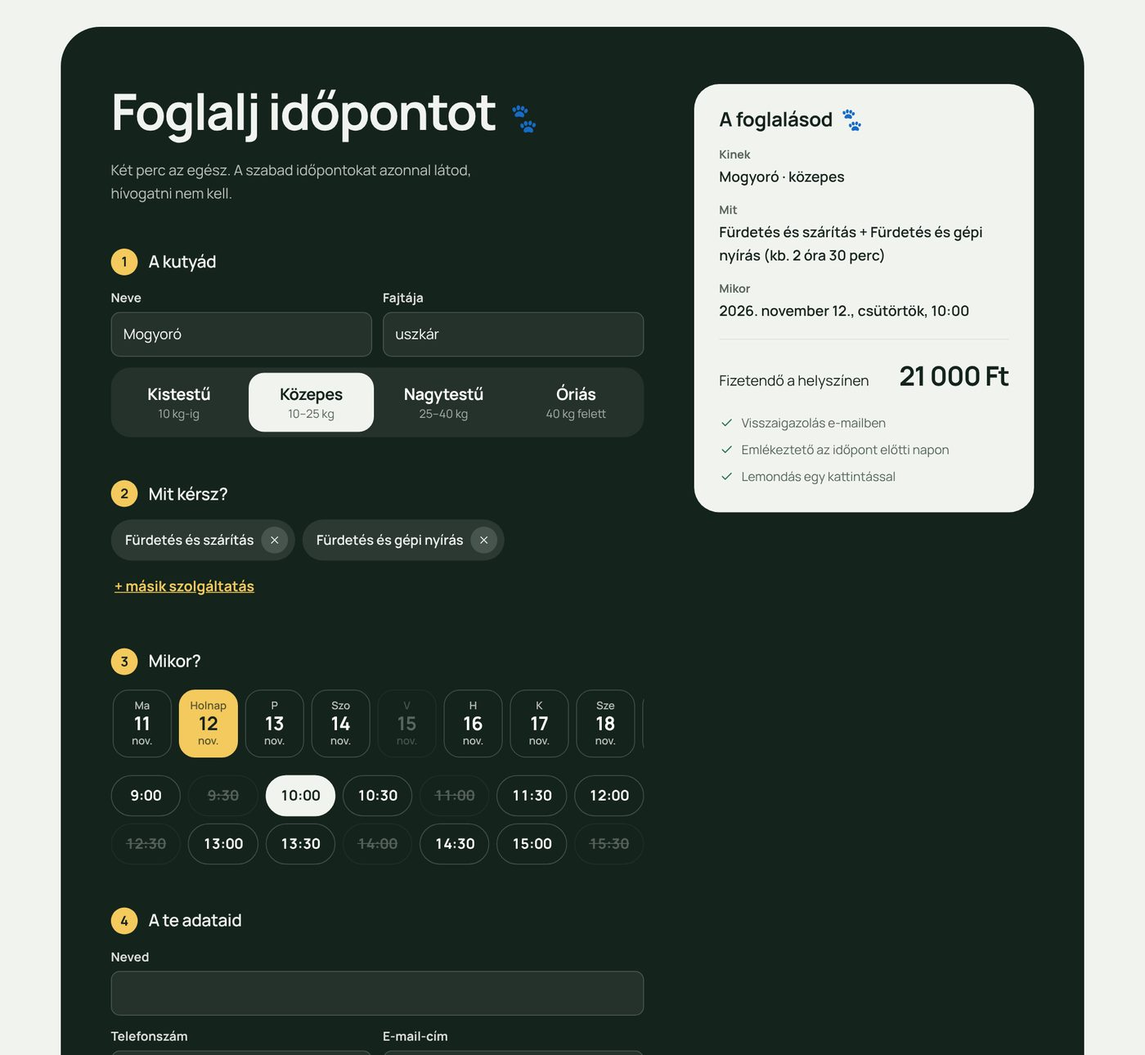
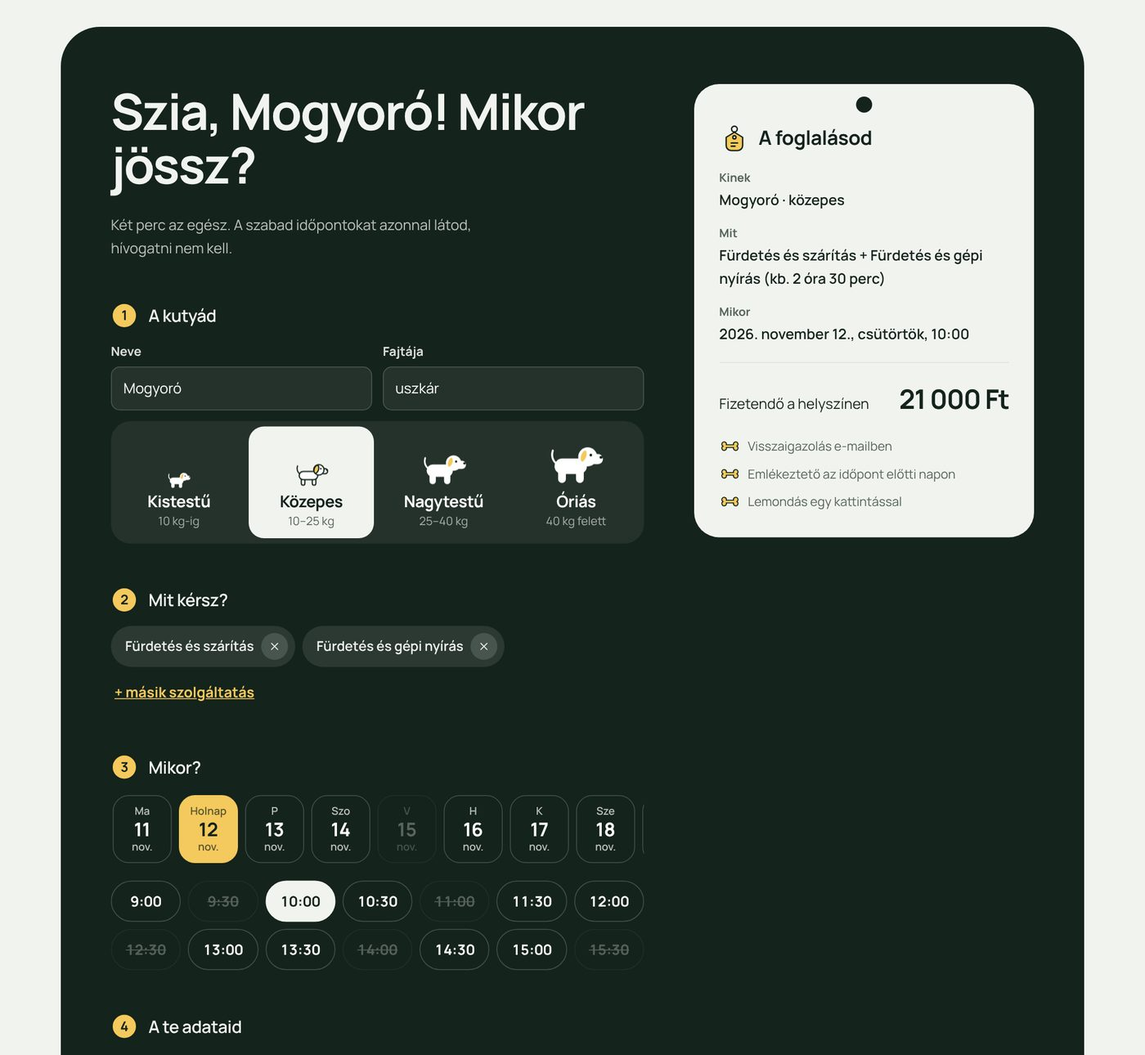
teszt-kutyakozmetika: saját matricakészlet, futószalag, részletek
Claude-Session: https://claude.ai/code/session_016Run1nACTgNtgLbjaBZxC9

diff --git a/minta/teszt-kutyakozmetika/index.html b/minta/teszt-kutyakozmetika/index.html
@@ -85,6 +85,18 @@ p{margin:0}
 .clist .ico{margin-top:3px;color:var(--acc)}
 .clist a{font-weight:700}
 
+/* térkép: csak kattintásra tölt be */
+.mapbox{position:relative;margin-top:24px;min-height:280px;background:var(--acct);overflow:hidden;display:grid;place-items:center;text-align:center;border-radius:var(--rm,0)}
+.mapbox::before{content:"";position:absolute;inset:0;opacity:.5;background:linear-gradient(115deg,transparent 46%,var(--line) 46%,var(--line) 47.2%,transparent 47.2%),linear-gradient(28deg,transparent 58%,var(--line) 58%,var(--line) 59%,transparent 59%),linear-gradient(160deg,transparent 30%,var(--line) 30%,var(--line) 30.8%,transparent 30.8%),linear-gradient(75deg,transparent 70%,var(--line) 70%,var(--line) 70.7%,transparent 70.7%)}
+.mapbox .in{position:relative;max-width:640px;padding:24px}
+.mapbox .in>.ico{width:30px;height:30px;color:var(--acc);margin:0 auto}
+.mapbox b{display:block;font-family:var(--fh);font-size:22px;line-height:1.2;margin-top:8px}
+.mapbox .row{display:flex;flex-wrap:wrap;justify-content:center;gap:10px;margin-top:16px}
+.mapbox .btn{min-height:46px;padding:10px 18px}
+.mapbox small{display:block;color:var(--ink2);font-size:13px;margin:14px auto 0;line-height:1.5;max-width:46ch}
+.mapbox iframe{position:absolute;inset:0;width:100%;height:100%;border:0}
+.vright{min-width:0;display:flex;flex-direction:column}
+.vright .mapbox{flex:1}
 footer{border-top:1px solid var(--line);margin-top:32px;padding:32px 0 110px;font-size:14px;color:var(--ink2)}
 footer .wrap{display:flex;flex-wrap:wrap;justify-content:space-between;gap:20px 40px}
 footer b{color:var(--ink)}
@@ -286,12 +298,8 @@ footer b{color:var(--ink)}
   .hpic .next{font-size:13px;padding:10px 14px}.hpic .next b{font-size:18px}
 }
 .bookband>*,.hero>*,.about>*,.visit>*{min-width:0}
-.paw{font-size:.5em;display:inline-block;transform:rotate(18deg);margin-left:.12em;vertical-align:.12em;font-family:"Apple Color Emoji","Segoe UI Emoji","Noto Color Emoji",sans-serif;letter-spacing:0}
-.next .paw,.sumcard h3 .paw{font-size:1em;vertical-align:0}
-.pawrow{display:flex;justify-content:center;gap:34px;padding:44px 0 0;font-size:22px;opacity:.5}
-.pawrow span:nth-child(odd){transform:rotate(-14deg) translateY(-6px)}.pawrow span:nth-child(even){transform:rotate(16deg) translateY(6px)}
-.bookband .sizes button[aria-pressed=true] span{color:var(--ink2);opacity:1}
 .nw{white-space:nowrap}
+.bookband .sizes button[aria-pressed=true] span{color:var(--ink2);opacity:1}
 /* formaváltozatok (cfg "shape": "iv" | "kerek" | "szogletes") */
 .s-kerek .hpic .a{border-radius:50%;aspect-ratio:1}
 .s-kerek .hpic .b{bottom:-10px}
@@ -302,6 +310,137 @@ footer b{color:var(--ink)}
 .s-szogletes .sizes{border-radius:14px}.s-szogletes .sizes button{border-radius:10px}
 .s-szogletes{--rb:12px}
 .s-szogletes .add{border-radius:12px}
+
+/* ── matricák, apró részletek ── */
+.dd{width:40px;height:40px;flex:none;stroke:var(--ink);stroke-width:2.2;stroke-linejoin:round;stroke-linecap:round;fill:none;overflow:visible}
+.dd-f{fill:var(--pop)}.dd-w{fill:#fff}.dd-k{fill:var(--ink);stroke:none}
+.scr{position:relative;white-space:nowrap}
+.scr .dd{position:absolute;left:-2%;bottom:-.16em;width:104%;height:.26em;stroke:var(--pop);stroke-width:5;z-index:-1}
+.hero{position:relative;isolation:isolate}
+.hpic .fl{position:absolute;z-index:2}
+.hpic .f1{left:-34px;top:8%;width:72px;height:72px;transform:rotate(-12deg);animation:kfloat 5s ease-in-out infinite}
+.hpic .f2{right:6%;bottom:-22px;width:76px;height:76px;transform:rotate(18deg)}
+.hpic .f3{right:-26px;top:44%;width:44px;height:44px;animation:kfloat 4s ease-in-out -2s infinite}
+@keyframes kfloat{50%{translate:0 -8px}}
+.hpic .say{position:absolute;left:-8%;top:30%;z-index:3;background:var(--card);border:2.2px solid var(--ink);border-radius:22px 22px 22px 4px;padding:12px 16px;font-weight:700;font-size:15px;line-height:1.3;max-width:200px;box-shadow:5px 5px 0 var(--ink);transform:rotate(-4deg)}
+.hpic .spin{position:absolute;left:26%;bottom:-46px;width:132px;height:132px;display:grid;place-items:center;background:var(--pop);border:2.2px solid var(--ink);border-radius:50%;z-index:3;text-decoration:none;transition:transform .3s}
+.hpic .spin:hover{transform:scale(1.06)}
+.hpic .spin>svg:first-child{position:absolute;inset:0;animation:kspin 22s linear infinite}
+.hpic .spin text{font:700 15.5px var(--fb);letter-spacing:.06em;fill:var(--ink)}
+.hpic .spin .dd{width:54px;height:54px}
+@keyframes kspin{to{transform:rotate(360deg)}}
+.hpic .b{left:auto;right:-30px;bottom:auto;top:-18px;width:34%;border:2.2px solid var(--ink);outline:7px solid var(--paper)}
+.hpic .a{border:2.2px solid var(--ink)}
+.hpic .next{right:auto;left:-30px;top:auto;bottom:16%;display:flex;gap:10px;align-items:center;background:var(--card);border:2.2px solid var(--ink);box-shadow:5px 5px 0 var(--ink);color:var(--ink);transform:rotate(2deg);max-width:250px;border-radius:18px;padding:10px 16px 10px 10px;z-index:3}
+.hpic .next .dd{width:42px;height:42px}
+.hpic .next b{font-size:19px;margin-top:0}
+/* futószalag */
+.mq{margin:34px 0 64px;background:var(--pop);border-block:2.2px solid var(--ink);overflow:hidden;transform:rotate(-1.2deg) scale(1.02)}
+.mq .tr{display:flex;align-items:center;gap:26px;width:max-content;padding:14px 0;animation:kmq 46s linear infinite}
+.mq span{font:700 22px var(--fh);letter-spacing:-.02em;color:var(--popink);white-space:nowrap}
+.mq .dd{width:34px;height:34px}.mq .dd-f{fill:#fff}
+@keyframes kmq{to{transform:translateX(-50%)}}
+/* méretválasztó kutyákkal */
+.sizes button{display:grid;justify-items:center;align-content:end;gap:2px;min-height:112px}
+.sizes .dg{height:auto;aspect-ratio:64/48;margin-bottom:4px;transition:transform .25s}
+.sizes button:hover .dg{transform:translateY(-3px) rotate(-3deg)}
+.sizes button[aria-pressed=true] .dg{stroke:var(--ink)}
+.bookband .sizes button{min-height:96px}
+.bookband .sizes .dg{transform:scale(.8);margin-bottom:-2px}
+.bookband .sizes button:not([aria-pressed=true]) .dg{stroke:#fff}
+.bookband .sizes button:not([aria-pressed=true]) .dd-w{fill:transparent}
+.pl h3{display:flex;align-items:center;gap:10px;font-size:17px;color:var(--ink)}
+.pl h3 .dd{width:34px;height:34px}
+.add{border-width:2.2px}
+.add[aria-pressed=true]{animation:kpop .35s cubic-bezier(.3,1.8,.5,1)}
+@keyframes kpop{0%{transform:scale(.7)}100%{transform:scale(1)}}
+/* így telik egy kozmetika */
+.flow{list-style:none;margin:0;padding:0;display:grid;grid-template-columns:repeat(var(--n,5),minmax(0,1fr));gap:20px;position:relative}
+.flow::before{content:"";position:absolute;left:6%;right:6%;top:39px;border-top:2.5px dashed var(--ink);opacity:.35}
+.flow li{position:relative;text-align:center}
+.flow .dd{width:78px;height:78px;background:var(--card);border-radius:50%;padding:14px;border:2.2px solid var(--ink);margin:0 auto 14px;display:block;transition:transform .3s}
+.flow li:hover .dd{transform:rotate(-8deg) scale(1.06)}
+.flow b{display:block;font-family:var(--fh);font-size:19px;letter-spacing:-.02em}
+.flow p{font-size:14.5px;color:var(--ink2);margin-top:4px}
+/* akire külön figyelünk */
+.cares{display:grid;grid-template-columns:repeat(auto-fit,minmax(250px,1fr));gap:16px}
+.cares div{background:var(--card);border:2.2px solid var(--ink);border-radius:26px;padding:26px;box-shadow:6px 6px 0 var(--ink)}
+.cares div:nth-child(3n+2){background:var(--pop);color:var(--popink)}
+.cares div:nth-child(3n+2) .dd-f{fill:#fff}
+.cares div:nth-child(3n+2) p{color:inherit;opacity:.85}
+.cares .dd{width:56px;height:56px;margin-bottom:12px}
+.cares h3{font-size:23px;letter-spacing:-.02em}
+.cares p{color:var(--ink2);margin-top:8px}
+.know .dd{width:44px;height:44px;margin-bottom:10px}
+.about .pic{position:relative;overflow:visible}
+.about .pic img{border-radius:inherit}
+.about .pic .fl{position:absolute;right:-18px;top:-18px;width:76px;height:76px;transform:rotate(14deg)}
+.team i .dd{width:38px;height:38px}
+/* foglalás: biléta-kártya, pecsét */
+.sumcard{border-radius:28px 28px 28px 28px;padding-top:44px}
+.sumcard .hole{position:absolute;left:50%;top:14px;width:18px;height:18px;margin-left:-9px;border-radius:50%;background:var(--ink)}
+.sumcard h3{display:flex;align-items:center;gap:10px}
+.sumcard h3 .dd{width:34px;height:34px}
+.sumcard li .dd{width:24px;height:24px;margin-top:-1px}
+.bs h3 i{border:2.2px solid var(--ink)}
+.ba .knob{border:2.2px solid var(--ink)}
+.ba .knob .dd{width:26px;height:26px}
+.ba{border:2.2px solid var(--ink)}
+.bookband .done{position:relative}
+.stamp{display:inline-block;border:3px solid var(--pop);color:var(--pop);font:700 20px var(--fh);letter-spacing:.14em;text-transform:uppercase;padding:6px 16px;border-radius:10px;transform:rotate(-7deg);margin-bottom:22px}
+/* törzskártya */
+.loy{display:grid;grid-template-columns:minmax(0,1fr) minmax(0,1fr);gap:48px;align-items:center}
+.loy h2{font-size:clamp(28px,3.6vw,42px);letter-spacing:-.03em}
+.loy p{color:var(--ink2);font-size:18px;margin-top:12px;max-width:44ch}
+.loy .card{background:var(--pop);color:var(--popink);border:2.2px solid var(--ink);border-radius:26px;padding:26px;box-shadow:8px 8px 0 var(--ink);transform:rotate(2.5deg);max-width:440px;justify-self:center}
+.loy .card b{font-family:var(--fh);font-size:22px}
+.loy .st{display:flex;flex-wrap:wrap;gap:10px;margin:16px 0 12px}
+.loy .st i{width:54px;height:54px;border-radius:50%;border:2.2px dashed var(--ink);display:grid;place-items:center}
+.loy .st i .dd{width:34px;height:34px;opacity:.18}
+.loy .st i.on{border-style:solid;background:#fff}.loy .st i.on .dd{opacity:1}
+.loy .st i.gift{background:var(--ink);border-style:solid}.loy .st i.gift .dd{opacity:1;stroke:var(--ink)}
+.loy small{font-weight:700;font-size:13px;letter-spacing:.04em}
+.k-kutya{--rm:24px}
+.k-kutya .mapbox{border:2.2px solid var(--ink)}
+.k-kutya .clist a[href*='google.com/maps'],.k-kutya .clist br{display:none}
+/* lábléc a kikukucskáló kutyával */
+.kfoot{position:relative;background:var(--ink);color:rgba(255,255,255,.75);margin-top:110px;padding:64px 0 0;border-top:0;font-size:15px}
+.kfoot .peek{position:absolute;left:50%;top:-73px;width:150px;height:75px;margin-left:-75px;stroke:var(--ink)}
+.kfoot .wrap{display:block}
+.kfoot .cols{display:grid;grid-template-columns:1.3fr 1fr 1fr;gap:56px;align-items:start}
+.kfoot .name{font:700 34px/1.05 var(--fh);letter-spacing:-.03em;color:#fff}
+.kfoot .tagl{margin:8px 0 22px;color:rgba(255,255,255,.65)}
+.kfoot .btn{background:var(--pop);border-color:var(--pop);color:var(--popink)}
+.kfoot h4{font:700 15px var(--fb);color:var(--pop);margin:6px 0 16px;letter-spacing:0}
+.kfoot ul{list-style:none;margin:0;padding:0;display:grid;gap:9px}
+.kfoot a{color:#fff}
+.kfoot .hrs li{display:flex;justify-content:space-between;gap:16px;max-width:240px}
+.kfoot .hrs li span:last-child{color:#fff;font-variant-numeric:tabular-nums}
+.kfoot .legal{display:flex;flex-wrap:wrap;justify-content:space-between;gap:8px 30px;margin-top:56px;padding:22px 0 28px;border-top:1px solid rgba(255,255,255,.14);font-size:13px;color:rgba(255,255,255,.55)}
+.kfoot .legal a{color:rgba(255,255,255,.8)}
+@media (max-width:1000px){
+  .hpic .say{left:-4px;top:22%;font-size:13.5px;max-width:160px}
+  .hpic .next{left:-6px}
+  .hpic .b{right:-8px}
+  .hpic .f1{left:-10px}.hpic .f3{right:-8px}
+  .hpic{margin-bottom:40px}
+  .mq{margin:20px 0 44px}.mq span{font-size:18px}
+  .flow{grid-template-columns:1fr;gap:18px}.flow::before{left:38px;right:auto;top:20px;bottom:20px;border-top:0;border-left:2.5px dashed var(--ink)}
+  .flow li{display:grid;grid-template-columns:78px 1fr;gap:4px 16px;text-align:left;align-items:center}
+  .flow .dd{grid-row:1/3;margin:0}.flow b{align-self:end}.flow p{align-self:start;margin:0}
+  .loy{grid-template-columns:1fr;gap:28px}
+  .kfoot .cols{grid-template-columns:1fr;gap:0}
+  .kfoot .cols>div:not(.id){border-top:1px solid rgba(255,255,255,.14);padding:22px 0 24px}
+  .kfoot .id{padding-bottom:28px}
+  .kfoot .hrs li{max-width:none}
+  .kfoot .legal{flex-direction:column;margin-top:0;padding-bottom:110px}
+  .cares div{box-shadow:4px 4px 0 var(--ink)}
+}
+@media (max-width:640px){
+  .sizes button{min-height:96px}
+  .hpic .spin{width:104px;height:104px;bottom:-36px;left:8%}.hpic .spin .dd{width:42px;height:42px}.hpic .spin text{font-size:16px}
+}
+.k-kutya main{overflow-x:clip}
 </style>
 </head>
 <body class="k-kutya s-alap t-alap">
@@ -314,13 +453,14 @@ footer b{color:var(--ink)}
 <section class="wrap hero" data-shot="hero">
   <div>
     <p class="loc"><svg class="ico" aria-hidden="true"><use href="#i-pin"/></svg>Budapest XIV., Zugló</p>
-    <h1>Kutyakozmetika, ahová a kutyád is szívesen <span class="nw">jön<span class="paw" aria-hidden="true">🐾</span></span></h1>
+    <h1>Kutyakozmetika, ahová a kutyád is <span class="scr">szívesen<svg class="dd" viewBox="0 0 200 20" preserveAspectRatio="none" aria-hidden="true"><use href="#d-scribble"/></svg></span> jön</h1>
     <p class="lead">Fürdetés, nyírás és trimmelés nyugodt tempóban, egyszerre egy kutyával. Az árakat a méret alapján előre látod, az időpontot pedig két perc alatt lefoglalod.</p>
     <div class="cta"><a class="btn" href="#foglalas">Időpontot foglalok</a><a class="btn line" href="#arak">Árak</a></div>
     <div class="meta"><span><i class="dot"></i><span data-open></span></span><span><svg class="ico" aria-hidden="true"><use href="#i-phone"/></svg>+36 30 123 4567</span><span><svg class="ico" aria-hidden="true"><use href="#i-car"/></svg>Ingyenes parkolás az utcán</span></div>
   </div>
-  <div class="hpic"><div class="a"><img src="img/d1.jpg" alt="Szamojéd fürdetés után" width="748" height="1125"></div><div class="b"><img src="img/d5.jpg" alt="Fekete uszkár nyírás után" width="900" height="675"></div><p class="next">Legközelebbi szabad időpont<b><span data-next></span> <span class="paw" aria-hidden="true">🐾</span></b></p></div>
+  <div class="hpic"><div class="a"><img src="img/d1.jpg" alt="Szamojéd fürdetés után" width="748" height="1125"></div><div class="b"><img src="img/d5.jpg" alt="Fekete uszkár nyírás után" width="900" height="675"></div><p class="say">Vau! Itt senki nem siettet.</p><a class="spin" href="#foglalas" aria-label="Időpontfoglalás"><svg viewBox="0 0 200 200" aria-hidden="true"><defs><path id="spinp" d="M100 100m-74 0a74 74 0 1 1 148 0a74 74 0 1 1-148 0"/></defs><text><textPath href="#spinp" textLength="455" lengthAdjust="spacing">IDŐPONT ONLINE • KÉT PERC ALATT •</textPath></text></svg><svg class="dd" viewBox="0 0 48 48" aria-hidden="true"><use href="#d-dogface"/></svg></a><p class="next"><svg class="dd" viewBox="0 0 48 48" aria-hidden="true"><use href="#d-clock"/></svg><span>Legközelebbi szabad időpont<b data-next></b></span></p><svg class="dd fl f1" viewBox="0 0 48 48" aria-hidden="true"><use href="#d-bubbles"/></svg><svg class="dd fl f2" viewBox="0 0 48 48" aria-hidden="true"><use href="#d-bone"/></svg><svg class="dd fl f3" viewBox="0 0 48 48" aria-hidden="true"><use href="#d-star"/></svg></div>
 </section>
+<div class="mq" aria-hidden="true"><div class="tr"><span>Fürdetés és szárítás</span><svg class="dd" viewBox="0 0 48 48" aria-hidden="true"><use href="#d-bone"/></svg><span>Fürdetés és gépi nyírás</span><svg class="dd" viewBox="0 0 48 48" aria-hidden="true"><use href="#d-scissors"/></svg><span>Fürdetés és ollós nyírás</span><svg class="dd" viewBox="0 0 48 48" aria-hidden="true"><use href="#d-bubbles"/></svg><span>Trimmelés</span><svg class="dd" viewBox="0 0 48 48" aria-hidden="true"><use href="#d-bow"/></svg><span>Karomvágás</span><svg class="dd" viewBox="0 0 48 48" aria-hidden="true"><use href="#d-star"/></svg><span>Fogkőeltávolítás ultrahanggal</span><svg class="dd" viewBox="0 0 48 48" aria-hidden="true"><use href="#d-ball"/></svg><span>Bontás, filcmentesítés</span><svg class="dd" viewBox="0 0 48 48" aria-hidden="true"><use href="#d-comb"/></svg><span>Kölyök első kozmetika</span><svg class="dd" viewBox="0 0 48 48" aria-hidden="true"><use href="#d-heart"/></svg><span>Fürdetés és szárítás</span><svg class="dd" viewBox="0 0 48 48" aria-hidden="true"><use href="#d-bone"/></svg><span>Fürdetés és gépi nyírás</span><svg class="dd" viewBox="0 0 48 48" aria-hidden="true"><use href="#d-scissors"/></svg><span>Fürdetés és ollós nyírás</span><svg class="dd" viewBox="0 0 48 48" aria-hidden="true"><use href="#d-bubbles"/></svg><span>Trimmelés</span><svg class="dd" viewBox="0 0 48 48" aria-hidden="true"><use href="#d-bow"/></svg><span>Karomvágás</span><svg class="dd" viewBox="0 0 48 48" aria-hidden="true"><use href="#d-star"/></svg><span>Fogkőeltávolítás ultrahanggal</span><svg class="dd" viewBox="0 0 48 48" aria-hidden="true"><use href="#d-ball"/></svg><span>Bontás, filcmentesítés</span><svg class="dd" viewBox="0 0 48 48" aria-hidden="true"><use href="#d-comb"/></svg><span>Kölyök első kozmetika</span><svg class="dd" viewBox="0 0 48 48" aria-hidden="true"><use href="#d-heart"/></svg></div></div>
 
 <section class="wrap" id="arak" style="scroll-margin-top:16px">
   <div class="prices" data-shot="offer">
@@ -331,10 +471,12 @@ footer b{color:var(--ink)}
   </div>
 </section>
 
+<section class="wrap sec"><div class="sech"><h2>Így telik nálunk egy kozmetika</h2></div><ol class="flow" style="--n:5"><li><svg class="dd" viewBox="0 0 48 48" aria-hidden="true"><use href="#d-heart"/></svg><b>Ismerkedés</b><p>Pár perc szaglászás, simogatás, mielőtt bármi elkezdődne.</p></li><li><svg class="dd" viewBox="0 0 48 48" aria-hidden="true"><use href="#d-tub"/></svg><b>Fürdetés</b><p>Langyos víz, bőrbarát sampon, fültisztítás.</p></li><li><svg class="dd" viewBox="0 0 48 48" aria-hidden="true"><use href="#d-dryer"/></svg><b>Szárítás</b><p>Türelemmel, a félősöknek halkabb fokozaton.</p></li><li><svg class="dd" viewBox="0 0 48 48" aria-hidden="true"><use href="#d-scissors"/></svg><b>Nyírás</b><p>Géppel vagy ollóval, a fajtának megfelelően.</p></li><li><svg class="dd" viewBox="0 0 48 48" aria-hidden="true"><use href="#d-treat"/></svg><b>Jutalomfalat</b><p>A végén mindenki kap egyet. A gazdi is büszke lehet.</p></li></ol></section>
+
 <section class="wrap" id="foglalas" style="scroll-margin-top:8px">
   <div class="bookband" data-shot="book">
     <form class="form" data-form data-bookbody novalidate>
-      <h2>Foglalj időpontot <span class="paw" aria-hidden="true">🐾</span></h2>
+      <h2 data-hello>Foglalj időpontot</h2>
       <p class="intro">Két perc az egész. A szabad időpontokat azonnal látod, hívogatni nem kell.</p>
       <div class="bs"><h3><i>1</i>A kutyád</h3>
         <div class="two"><label>Neve<input name="kutya" required autocomplete="off"></label><label>Fajtája<input name="fajta" required autocomplete="off" placeholder="pl. uszkár, keverék"></label></div>
@@ -354,16 +496,18 @@ footer b{color:var(--ink)}
       <button class="btn full" type="submit">Időpont lefoglalása</button>
     </form>
     <aside class="sumcard" data-bookbody aria-live="polite">
-      <h3>A foglalásod <span class="paw" aria-hidden="true">🐾</span></h3>
+      <span class="hole" aria-hidden="true"></span>
+      <h3><svg class="dd" viewBox="0 0 48 48" aria-hidden="true"><use href="#d-tag"/></svg>A foglalásod</h3>
       <dl>
         <div><dt>Kinek</dt><dd data-s-dog></dd></div>
         <div><dt>Mit</dt><dd data-s-what></dd></div>
         <div><dt>Mikor</dt><dd data-s-when></dd></div>
       </dl>
       <div class="tot"><span>Fizetendő a helyszínen</span><b data-s-total>–</b></div>
-      <ul><li><svg class="ico" aria-hidden="true"><use href="#i-check"/></svg>Visszaigazolás e-mailben</li><li><svg class="ico" aria-hidden="true"><use href="#i-check"/></svg>Emlékeztető az időpont előtti napon</li><li><svg class="ico" aria-hidden="true"><use href="#i-check"/></svg>Lemondás egy kattintással</li></ul>
+      <ul><li><svg class="dd" viewBox="0 0 48 48" aria-hidden="true"><use href="#d-bone"/></svg>Visszaigazolás e-mailben</li><li><svg class="dd" viewBox="0 0 48 48" aria-hidden="true"><use href="#d-bone"/></svg>Emlékeztető az időpont előtti napon</li><li><svg class="dd" viewBox="0 0 48 48" aria-hidden="true"><use href="#d-bone"/></svg>Lemondás egy kattintással</li></ul>
     </aside>
     <div class="done" data-done hidden tabindex="-1">
+      <span class="stamp" aria-hidden="true">Lefoglalva</span>
       <h3 data-done-h></h3>
       <p data-done-p></p>
       <p>A visszaigazolást e-mailben küldjük, az időpont előtti napon pedig emlékeztetőt kapsz.</p>
@@ -372,26 +516,31 @@ footer b{color:var(--ink)}
   </div>
 </section>
 
-<div class="pawrow" aria-hidden="true"><span>🐾</span><span>🐾</span><span>🐾</span></div>
-<section class="wrap sec" id="munkaink"><div class="sech"><h2>Előtte és utána</h2><p>Húzd el a csúszkát: bal oldalon az érkezés, jobb oldalon a hazaindulás.</p></div><div class="pairs"><figure style="margin:0"><div class="ba"><img src="img/d7.jpg" alt="Előtte" width="900" height="598" loading="lazy"><img src="img/d4.jpg" alt="Utána" width="900" height="675" loading="lazy" class="af"><span class="tag l">Előtte</span><span class="tag r">Utána</span><input type="range" min="0" max="100" value="50" aria-label="Előtte–utána összehasonlítás: Uszkár – fürdetés és ollós nyírás"><span class="knob" aria-hidden="true">↔</span></div><figcaption class="bacap">Uszkár – fürdetés és ollós nyírás</figcaption></figure><figure style="margin:0"><div class="ba"><img src="img/d10.jpg" alt="Előtte" width="900" height="600" loading="lazy"><img src="img/d11.jpg" alt="Utána" width="900" height="598" loading="lazy" class="af"><span class="tag l">Előtte</span><span class="tag r">Utána</span><input type="range" min="0" max="100" value="50" aria-label="Előtte–utána összehasonlítás: Spániel – fürdetés és fazonigazítás"><span class="knob" aria-hidden="true">↔</span></div><figcaption class="bacap">Spániel – fürdetés és fazonigazítás</figcaption></figure></div><div class="works" style="margin-top:20px"><button type="button" data-lb="d9" aria-label="Kínai meztelenkutya fazonigazítás után – nagyítás"><img src="img/d9.jpg" alt="Kínai meztelenkutya fazonigazítás után" width="844" height="1125" loading="lazy"></button><button type="button" data-lb="d8" aria-label="Fehér bichon – nagyítás"><img src="img/d8.jpg" alt="Fehér bichon" width="900" height="900" loading="lazy"></button><button type="button" data-lb="d2" aria-label="Munka közben – nagyítás"><img src="img/d2.jpg" alt="Munka közben" width="900" height="674" loading="lazy"></button><button type="button" data-lb="d11" aria-label="Cocker spániel – nagyítás"><img src="img/d11.jpg" alt="Cocker spániel" width="900" height="598" loading="lazy"></button><button type="button" data-lb="d4" aria-label="Szürke uszkár – nagyítás"><img src="img/d4.jpg" alt="Szürke uszkár" width="900" height="675" loading="lazy"></button></div></section>
-<section class="wrap sec"><div class="about"><div class="pic"><img src="img/d2.jpg" alt="Kozmetikus munka közben" width="900" height="674" loading="lazy"></div><div><h2>Egyszerre egy kutya, annyi idő, amennyi kell</h2><p class="lead">Nálunk nincs futószalag: a kutyád nem vár ketrecben, a kozmetika végig vele foglalkozik. A félős és idős kutyáknak több szünetet tartunk.</p><div class="team"><div><i>R</i><span><b>Réka</b><span>kutyakozmetikus</span></span></div><div><i>D</i><span><b>Dóri</b><span>kutyakozmetikus</span></span></div></div></div></div></section>
-<section class="wrap sec"><div class="sech"><h2>Jó tudni érkezés előtt <span class="paw" aria-hidden="true">🐾</span></h2></div><div class="know"><div><svg class="ico" aria-hidden="true"><use href="#i-check"/></svg><b>Oltási könyv</b><p>Az első alkalommal hozd magaddal az oltási könyvet.</p></div><div><svg class="ico" aria-hidden="true"><use href="#i-clock"/></svg><b>Érkezés</b><p>Elég 5 perccel korábban jönnöd, a kutyát sétáltasd meg előtte.</p></div><div><svg class="ico" aria-hidden="true"><use href="#i-card"/></svg><b>Fizetés</b><p>Készpénzzel és bankkártyával is fizethetsz.</p></div></div></section>
+<section class="wrap sec" id="munkaink"><div class="sech"><h2>Előtte és utána</h2><p>Húzd el a csúszkát: bal oldalon az érkezés, jobb oldalon a hazaindulás.</p></div><div class="pairs"><figure style="margin:0"><div class="ba"><img src="img/d7.jpg" alt="Előtte" width="900" height="598" loading="lazy"><img src="img/d4.jpg" alt="Utána" width="900" height="675" loading="lazy" class="af"><span class="tag l">Előtte</span><span class="tag r">Utána</span><input type="range" min="0" max="100" value="50" aria-label="Előtte–utána összehasonlítás: Uszkár – fürdetés és ollós nyírás"><span class="knob" aria-hidden="true"><svg class="dd" viewBox="0 0 48 48" aria-hidden="true"><use href="#d-scissors"/></svg></span></div><figcaption class="bacap">Uszkár – fürdetés és ollós nyírás</figcaption></figure><figure style="margin:0"><div class="ba"><img src="img/d10.jpg" alt="Előtte" width="900" height="600" loading="lazy"><img src="img/d11.jpg" alt="Utána" width="900" height="598" loading="lazy" class="af"><span class="tag l">Előtte</span><span class="tag r">Utána</span><input type="range" min="0" max="100" value="50" aria-label="Előtte–utána összehasonlítás: Spániel – fürdetés és fazonigazítás"><span class="knob" aria-hidden="true"><svg class="dd" viewBox="0 0 48 48" aria-hidden="true"><use href="#d-scissors"/></svg></span></div><figcaption class="bacap">Spániel – fürdetés és fazonigazítás</figcaption></figure></div><div class="works" style="margin-top:20px"><button type="button" data-lb="d9" aria-label="Kínai meztelenkutya fazonigazítás után – nagyítás"><img src="img/d9.jpg" alt="Kínai meztelenkutya fazonigazítás után" width="844" height="1125" loading="lazy"></button><button type="button" data-lb="d8" aria-label="Fehér bichon – nagyítás"><img src="img/d8.jpg" alt="Fehér bichon" width="900" height="900" loading="lazy"></button><button type="button" data-lb="d2" aria-label="Munka közben – nagyítás"><img src="img/d2.jpg" alt="Munka közben" width="900" height="674" loading="lazy"></button><button type="button" data-lb="d11" aria-label="Cocker spániel – nagyítás"><img src="img/d11.jpg" alt="Cocker spániel" width="900" height="598" loading="lazy"></button><button type="button" data-lb="d4" aria-label="Szürke uszkár – nagyítás"><img src="img/d4.jpg" alt="Szürke uszkár" width="900" height="675" loading="lazy"></button></div></section>
+<section class="wrap sec"><div class="sech"><h2>Akire külön figyelünk</h2></div><div class="cares"><div><svg class="dd" viewBox="0 0 48 48" aria-hidden="true"><use href="#d-treat"/></svg><h3>Kölykök</h3><p>Az első alkalom csak ismerkedés: rövid, játékos, hogy legközelebb is szívesen jöjjön.</p></div><div><svg class="dd" viewBox="0 0 48 48" aria-hidden="true"><use href="#d-heart"/></svg><h3>Félős kutyák</h3><p>Több szünet, halkabb gépek, és ha kell, a gazdi is bent maradhat.</p></div><div><svg class="dd" viewBox="0 0 48 48" aria-hidden="true"><use href="#d-clock"/></svg><h3>Idős kutyák</h3><p>Csúszásmentes asztal, rövidebb állás, annyi pihenő, amennyi kell.</p></div></div></section>
+<section class="wrap sec"><div class="about"><div class="pic"><img src="img/d2.jpg" alt="Kozmetikus munka közben" width="900" height="674" loading="lazy"><svg class="dd fl" viewBox="0 0 48 48" aria-hidden="true"><use href="#d-heart"/></svg></div><div><h2>Egyszerre egy kutya, annyi idő, amennyi kell</h2><p class="lead">Nálunk nincs futószalag: a kutyád nem vár ketrecben, a kozmetika végig vele foglalkozik. A félős és idős kutyáknak több szünetet tartunk.</p><div class="team"><div><i><svg class="dd" viewBox="0 0 48 48" aria-hidden="true"><use href="#d-dogface"/></svg></i><span><b>Réka</b><span>kutyakozmetikus</span></span></div><div><i><svg class="dd" viewBox="0 0 48 48" aria-hidden="true"><use href="#d-dogface"/></svg></i><span><b>Dóri</b><span>kutyakozmetikus</span></span></div></div></div></div></section>
+<section class="wrap sec"><div class="loy"><div><h2>Minden hatodik fürdetés ajándék</h2><p>A törzskártyádra minden kozmetika után csontot nyomunk. Ha összegyűlt öt, a hatodik fürdetést mi álljuk.</p></div><div class="card" aria-hidden="true"><b>Mancs Műhely</b><div class="st"><i class="on"><svg class="dd" viewBox="0 0 48 48" aria-hidden="true"><use href="#d-bone"/></svg></i><i class="on"><svg class="dd" viewBox="0 0 48 48" aria-hidden="true"><use href="#d-bone"/></svg></i><i class="on"><svg class="dd" viewBox="0 0 48 48" aria-hidden="true"><use href="#d-bone"/></svg></i><i class=""><svg class="dd" viewBox="0 0 48 48" aria-hidden="true"><use href="#d-bone"/></svg></i><i class=""><svg class="dd" viewBox="0 0 48 48" aria-hidden="true"><use href="#d-bone"/></svg></i><i class="gift"><svg class="dd" viewBox="0 0 48 48" aria-hidden="true"><use href="#d-treat"/></svg></i></div><small>törzsvásárlói kártya</small></div></div></section>
+<section class="wrap sec"><div class="sech"><h2>Jó tudni érkezés előtt</h2></div><div class="know"><div><svg class="dd" viewBox="0 0 48 48" aria-hidden="true"><use href="#d-tag"/></svg><b>Oltási könyv</b><p>Az első alkalommal hozd magaddal az oltási könyvet.</p></div><div><svg class="dd" viewBox="0 0 48 48" aria-hidden="true"><use href="#d-ball"/></svg><b>Érkezés</b><p>Elég 5 perccel korábban jönnöd, a kutyát sétáltasd meg előtte.</p></div><div><svg class="dd" viewBox="0 0 48 48" aria-hidden="true"><use href="#d-bone"/></svg><b>Fizetés</b><p>Készpénzzel és bankkártyával is fizethetsz.</p></div></div></section>
 
 <section class="wrap sec" id="kapcsolat">
   <div class="visitbox">
-    <div class="sech"><h2>Itt találsz minket <span class="paw" aria-hidden="true">🐾</span></h2></div>
-    <div class="visit"><table class="hours"><tbody><tr><td>Hétfő</td><td>9:00–17:00</td></tr><tr><td>Kedd</td><td>9:00–17:00</td></tr><tr><td>Szerda</td><td>9:00–17:00</td></tr><tr><td>Csütörtök</td><td>9:00–18:00</td></tr><tr><td>Péntek</td><td>9:00–17:00</td></tr><tr><td>Szombat</td><td>9:00–13:00</td></tr><tr class="closed"><td>Vasárnap</td><td>Zárva</td></tr></tbody></table><div class="clist"><div><svg class="ico" aria-hidden="true"><use href="#i-pin"/></svg><span>1145 Budapest, Példa utca 12.<br><a href="https://www.google.com/maps/search/?api=1&amp;query=1145+Budapest,+Példa+utca+12." target="_blank" rel="noopener">Útvonaltervezés</a></span></div><div><svg class="ico" aria-hidden="true"><use href="#i-phone"/></svg><a href="tel:+36301234567">+36 30 123 4567</a></div><div><svg class="ico" aria-hidden="true"><use href="#i-mail"/></svg><a href="mailto:hello@mancsmuhely.example">hello@mancsmuhely.example</a></div></div></div>
+    <div class="sech"><h2>Itt találsz minket</h2></div>
+    <div class="visit"><table class="hours"><tbody><tr><td>Hétfő</td><td>9:00–17:00</td></tr><tr><td>Kedd</td><td>9:00–17:00</td></tr><tr><td>Szerda</td><td>9:00–17:00</td></tr><tr><td>Csütörtök</td><td>9:00–18:00</td></tr><tr><td>Péntek</td><td>9:00–17:00</td></tr><tr><td>Szombat</td><td>9:00–13:00</td></tr><tr class="closed"><td>Vasárnap</td><td>Zárva</td></tr></tbody></table><div class="vright"><div class="clist"><div><svg class="ico" aria-hidden="true"><use href="#i-pin"/></svg><span>1145 Budapest, Példa utca 12.<br><a href="https://www.google.com/maps/search/?api=1&amp;query=1145+Budapest,+Példa+utca+12." target="_blank" rel="noopener">Útvonaltervezés</a></span></div><div><svg class="ico" aria-hidden="true"><use href="#i-phone"/></svg><a href="tel:+36301234567">+36 30 123 4567</a></div><div><svg class="ico" aria-hidden="true"><use href="#i-mail"/></svg><a href="mailto:hello@mancsmuhely.example">hello@mancsmuhely.example</a></div></div><div class="mapbox"><div class="in"><svg class="ico" aria-hidden="true"><use href="#i-pin"/></svg><b>1145 Budapest, Példa utca 12.</b><div class="row"><button type="button" class="btn" data-map="1145 Budapest, Példa utca 12.">Térkép betöltése</button><a class="btn line" href="https://www.google.com/maps/search/?api=1&amp;query=1145+Budapest,+Példa+utca+12." target="_blank" rel="noopener">Útvonaltervezés</a></div><small>A térképet a Google szolgáltatja. Csak a gombra kattintva tölt be, ekkor a Google sütiket használhat.</small></div></div></div></div>
   </div>
 </section>
 
 <div class="tray" data-tray><p data-tray-txt></p><a class="btn" href="#foglalas">Időpontot választok</a></div>
 </main>
 <div class="mbar"><p><b>2 000 Ft-tól</b><br><span class="muted">szabad időpontok azonnal</span></p><a class="btn" href="#foglalas">Időpontot foglalok</a></div>
-<footer>
+<footer class="kfoot">
+  <svg class="dd peek" viewBox="0 0 120 60" aria-hidden="true"><use href="#d-peek"/></svg>
   <div class="wrap">
-    <div><b>Mancs Műhely</b><br>1145 Budapest, Példa utca 12.</div>
-    <div>+36 30 123 4567<br><a href="mailto:hello@mancsmuhely.example">hello@mancsmuhely.example</a></div>
-    <div>Fotók: Wikimedia Commons (CC BY / CC BY-SA) – helykitöltő mintaképek<br>Weboldal-tervezet: <a href="https://hozdesigns.com">hozdesigns.com</a></div>
+    <div class="cols">
+      <div class="id"><p class="name">Mancs Műhely</p><p class="tagl">Kutyakozmetika Zuglóban, nyugodt tempóban.</p><a class="btn" href="#foglalas">Időpontot foglalok</a></div>
+      <div><h4>Nyitvatartás</h4><ul class="hrs"><li><span>Hétfő</span><span>9:00–17:00</span></li><li><span>Kedd</span><span>9:00–17:00</span></li><li><span>Szerda</span><span>9:00–17:00</span></li><li><span>Csütörtök</span><span>9:00–18:00</span></li><li><span>Péntek</span><span>9:00–17:00</span></li><li><span>Szombat</span><span>9:00–13:00</span></li><li><span>Vasárnap</span><span>zárva</span></li></ul></div>
+      <div><h4>Elérhetőség</h4><ul><li>1145 Budapest, Példa utca 12.</li><li><a href="tel:+36301234567">+36 30 123 4567</a></li><li><a href="mailto:hello@mancsmuhely.example">hello@mancsmuhely.example</a></li></ul></div>
+    </div>
+    <div class="legal"><span>© Mancs Műhely</span><span>Fotók: Wikimedia Commons (CC BY / CC BY-SA) – helykitöltő mintaképek</span><span>Weboldal-tervezet: <a href="https://hozdesigns.com">hozdesigns.com</a></span></div>
   </div>
 </footer>
 <div class="lb" role="dialog" aria-modal="true" aria-label="Fotók" data-lbox>
@@ -401,6 +550,26 @@ footer b{color:var(--ink)}
   <button class="r" type="button" aria-label="Következő fotó">›</button>
   <p></p>
 </div>
+<svg width="0" height="0" style="position:absolute" aria-hidden="true"><defs>
+<symbol id="d-bone" viewBox="0 0 48 48"><path class="dd-f" d="M15.770 21H32.230A5 5 0 1 1 39.2 24A5 5 0 1 1 32.230 27H15.770A5 5 0 1 1 8.8 24A5 5 0 1 1 15.770 21Z"/></symbol>
+<symbol id="d-bubbles" viewBox="0 0 48 48"><circle class="dd-w" cx="18" cy="28" r="11"/><circle class="dd-f" cx="35" cy="17" r="7"/><circle class="dd-w" cx="36" cy="36" r="4.5"/><path d="M12 25a7 7 0 0 1 5-4M31.5 14.500a4 4 0 0 1 3-1.5" fill="none"/></symbol>
+<symbol id="d-scissors" viewBox="0 0 48 48"><circle class="dd-f" cx="13" cy="14" r="6"/><circle class="dd-f" cx="13" cy="34" r="6"/><path class="dd-w" d="M18 17.500L41 31.5 43 36 18.5 21.500ZM18 30.500L41 16.5 43 12 18.5 26.500Z"/><circle class="dd-k" cx="24" cy="24" r="1.6"/></symbol>
+<symbol id="d-comb" viewBox="0 0 48 48"><rect class="dd-f" x="6" y="12" width="36" height="10" rx="4"/><path class="dd-w" d="M9 22h4v13a2 2 0 0 1-4 0zM16 22h4v13a2 2 0 0 1-4 0zM23 22h4v13a2 2 0 0 1-4 0zM30 22h4v13a2 2 0 0 1-4 0zM37 22h3v9a1.5 1.5 0 0 1-3 0z"/></symbol>
+<symbol id="d-tub" viewBox="0 0 48 48"><circle class="dd-w" cx="16" cy="17" r="5"/><circle class="dd-w" cx="25" cy="14" r="6"/><circle class="dd-w" cx="33" cy="18" r="4.5"/><path class="dd-f" d="M5 22h38v4a12 12 0 0 1-12 12H17A12 12 0 0 1 5 26z"/><path d="M14 38l-2 4M34 38l2 4" fill="none"/></symbol>
+<symbol id="d-dryer" viewBox="0 0 48 48"><path class="dd-w" d="M20 27h8l-1 14a2 2 0 0 1-2 2h-2a2 2 0 0 1-2-2z"/><path class="dd-f" d="M8 12a8 8 0 0 1 8-6h12a10 10 0 0 1 0 22H16a8 8 0 0 1-8-6z"/><circle class="dd-w" cx="28" cy="17" r="4.5"/><path d="M40 12l4-2M41 17h5M40 22l4 2" fill="none"/></symbol>
+<symbol id="d-bow" viewBox="0 0 48 48"><path class="dd-f" d="M22 24L8 14a2 2 0 0 0-3 2v16a2 2 0 0 0 3 2zM26 24l14-10a2 2 0 0 1 3 2v16a2 2 0 0 1-3 2z"/><rect class="dd-w" x="19.5" y="18.5" width="9" height="11" rx="3"/></symbol>
+<symbol id="d-ball" viewBox="0 0 48 48"><circle class="dd-f" cx="24" cy="24" r="15"/><path d="M11 17c8 2 12 8 11 21M37 31c-8-2-12-8-11-21" fill="none"/></symbol>
+<symbol id="d-bottle" viewBox="0 0 48 48"><rect class="dd-w" x="19" y="5" width="10" height="6" rx="1.5"/><path class="dd-f" d="M15 17a6 6 0 0 1 6-6h6a6 6 0 0 1 6 6v22a4 4 0 0 1-4 4H19a4 4 0 0 1-4-4z"/><rect class="dd-w" x="15" y="22" width="18" height="11"/><path d="M21 27.500h6" fill="none"/></symbol>
+<symbol id="d-tag" viewBox="0 0 48 48"><circle class="dd-w" cx="24" cy="9" r="4.5"/><path class="dd-f" d="M24 14l13 8v13a8 8 0 0 1-8 8H19a8 8 0 0 1-8-8V22z"/><circle class="dd-w" cx="24" cy="22" r="2.5"/><path d="M19 31h10M19 36h6" fill="none"/></symbol>
+<symbol id="d-heart" viewBox="0 0 48 48"><path class="dd-f" d="M24 40S7 30 7 18a8.5 8.5 0 0 1 17-2.500A8.5 8.5 0 0 1 41 18c0 12-17 22-17 22z"/><path d="M13 17a4 4 0 0 1 4-4" fill="none"/></symbol>
+<symbol id="d-treat" viewBox="0 0 48 48"><path class="dd-f" d="M10 16c3-6 9-8 14-5 5-3 11-1 14 5 3 7-1 16-14 23C11 32 7 23 10 16z"/><circle class="dd-k" cx="18" cy="19" r="1.4"/><circle class="dd-k" cx="30" cy="19" r="1.4"/><circle class="dd-k" cx="24" cy="27" r="1.4"/></symbol>
+<symbol id="d-star" viewBox="0 0 48 48"><path class="dd-f" d="M24 5c1.5 10 6 14.5 16 16-10 1.5-14.5 6-16 16-1.5-10-6-14.5-16-16 10-1.5 14.5-6 16-16z"/></symbol>
+<symbol id="d-clock" viewBox="0 0 48 48"><circle class="dd-f" cx="24" cy="25" r="15"/><circle class="dd-w" cx="24" cy="25" r="10.5"/><path d="M24 18v7l5 3M14 8l-5 4M34 8l5 4" fill="none"/></symbol>
+<symbol id="d-dogface" viewBox="0 0 48 48"><path class="dd-f" d="M11 12c-6 1-8 9-5 17 2 4 6 3 7-1zM37 12c6 1 8 9 5 17-2 4-6 3-7-1z"/><path class="dd-w" d="M11 22a13 13 0 0 1 26 0v6a13 13 0 0 1-26 0z"/><circle class="dd-k" cx="19" cy="23" r="1.8"/><circle class="dd-k" cx="29" cy="23" r="1.8"/><ellipse class="dd-k" cx="24" cy="29" rx="3" ry="2.2"/><path d="M24 31v3M20 35c2 2 6 2 8 0" fill="none"/></symbol>
+<symbol id="d-dog" viewBox="0 0 64 48"><path d="M11 24C6 21 4 15 6 9" fill="none"/><rect class="dd-w" x="13" y="29" width="6.5" height="15" rx="3.2"/><rect class="dd-w" x="33" y="29" width="6.5" height="15" rx="3.2"/><rect class="dd-w" x="9" y="19" width="34" height="15" rx="7.5"/><rect class="dd-w" x="48" y="14" width="13" height="9" rx="4.5"/><circle class="dd-w" cx="45" cy="16" r="9.5"/><ellipse class="dd-f" cx="40.5" cy="15" rx="4" ry="7.5" transform="rotate(18 40.5 15)"/><circle class="dd-k" cx="48.5" cy="14" r="1.5"/><ellipse class="dd-k" cx="60" cy="16.5" rx="1.8" ry="1.5"/></symbol>
+<symbol id="d-peek" viewBox="0 0 120 60"><path class="dd-f" d="M28 30c-12-2-20 6-20 22l14 6zM92 30c12-2 20 6 20 22l-14 6z"/><path class="dd-w" d="M26 60V40a34 34 0 0 1 68 0v20z"/><circle class="dd-k" cx="46" cy="38" r="3.4"/><circle class="dd-k" cx="74" cy="38" r="3.4"/><ellipse class="dd-k" cx="60" cy="50" rx="6.5" ry="4.5"/><path d="M40 29c3-3 8-3 11 0M69 29c3-3 8-3 11 0" fill="none"/></symbol>
+<symbol id="d-scribble" viewBox="0 0 200 20" preserveAspectRatio="none"><path d="M3 13c30-9 60-9 92-4 34 5 66 3 102-5" fill="none" stroke-width="5"/></symbol>
+</defs></svg>
 
 <svg width="0" height="0" style="position:absolute" aria-hidden="true"><defs>
 <symbol id="i-pin" viewBox="0 0 24 24"><path d="M12 21s7-6.1 7-11.5A7 7 0 0 0 5 9.500C5 14.9 12 21 12 21z"/><circle cx="12" cy="9.5" r="2.5"/></symbol>
@@ -432,7 +601,7 @@ footer b{color:var(--ink)}
 <symbol id="i-bag" viewBox="0 0 24 24"><path d="M5 8h14l-1 12H6L5 8zM9 8V6.5a3 3 0 0 1 6 0V8"/></symbol>
 </defs></svg>
 
-<script type="application/json" id="hzdata">{"sizes": [{"name": "Kistestű", "note": "10 kg-ig"}, {"name": "Közepes", "note": "10–25 kg"}, {"name": "Nagytestű", "note": "25–40 kg"}, {"name": "Óriás", "note": "40 kg felett"}], "cats": [{"cat": "Teljes kozmetika", "items": [{"name": "Fürdetés és szárítás", "desc": "Bőrbarát samponnal, kifésülve, fültisztítással", "min": [45, 60, 75, 90], "price": [6500, 8500, 11000, 14000], "id": "s0"}, {"name": "Fürdetés és gépi nyírás", "desc": "Fazonra vagy rövidre, a fajtának megfelelően", "min": [75, 90, 120, 150], "price": [9500, 12500, 16000, 21000], "id": "s1"}, {"name": "Fürdetés és ollós nyírás", "desc": "Kézzel formázott fazon, uszkároknak, bichonoknak", "min": [90, 120, 150, 180], "price": [12000, 15500, 19500, 25000], "from": true, "id": "s2"}, {"name": "Trimmelés", "desc": "Szálkás szőrű fajtáknak, kézzel", "min": [90, 120, 150, 150], "price": [13000, 16500, 21000, 21000], "from": true, "id": "s3"}]}, {"cat": "Kiegészítők", "items": [{"name": "Karomvágás", "min": 10, "price": 2000, "id": "s4"}, {"name": "Fogkőeltávolítás ultrahanggal", "desc": "Altatás nélkül, nyugodt kutyáknak", "min": 30, "price": 9000, "id": "s5"}, {"name": "Bontás, filcmentesítés", "desc": "Negyedóránként számolva", "min": 15, "price": 2500, "from": true, "id": "s6"}, {"name": "Kölyök első kozmetika", "desc": "5 hónapos korig, ismerkedős tempóban", "min": 45, "price": 6000, "id": "s7"}]}], "step": 30, "size0": 1, "demoDog": null, "demoBreed": null, "slug": "teszt-kutyakozmetika", "gal": [["d1", "Szamojéd fürdetés után"], ["d5", "Fekete uszkár nyírás után"], ["d9", "Kínai meztelenkutya fazonigazítás után"], ["d8", "Fehér bichon"], ["d2", "Munka közben"], ["d11", "Cocker spániel"], ["d4", "Szürke uszkár"]], "hours": [["9:00", "17:00"], ["9:00", "17:00"], ["9:00", "17:00"], ["9:00", "18:00"], ["9:00", "17:00"], ["9:00", "13:00"], null]}</script>
+<script type="application/json" id="hzdata">{"sizes": [{"name": "Kistestű", "note": "10 kg-ig"}, {"name": "Közepes", "note": "10–25 kg"}, {"name": "Nagytestű", "note": "25–40 kg"}, {"name": "Óriás", "note": "40 kg felett"}], "cats": [{"cat": "Teljes kozmetika", "items": [{"name": "Fürdetés és szárítás", "desc": "Bőrbarát samponnal, kifésülve, fültisztítással", "min": [45, 60, 75, 90], "price": [6500, 8500, 11000, 14000], "id": "s0"}, {"name": "Fürdetés és gépi nyírás", "desc": "Fazonra vagy rövidre, a fajtának megfelelően", "min": [75, 90, 120, 150], "price": [9500, 12500, 16000, 21000], "id": "s1"}, {"name": "Fürdetés és ollós nyírás", "desc": "Kézzel formázott fazon, uszkároknak, bichonoknak", "min": [90, 120, 150, 180], "price": [12000, 15500, 19500, 25000], "from": true, "id": "s2"}, {"name": "Trimmelés", "desc": "Szálkás szőrű fajtáknak, kézzel", "min": [90, 120, 150, 150], "price": [13000, 16500, 21000, 21000], "from": true, "id": "s3"}], "dd": "scissors"}, {"cat": "Kiegészítők", "items": [{"name": "Karomvágás", "min": 10, "price": 2000, "id": "s4"}, {"name": "Fogkőeltávolítás ultrahanggal", "desc": "Altatás nélkül, nyugodt kutyáknak", "min": 30, "price": 9000, "id": "s5"}, {"name": "Bontás, filcmentesítés", "desc": "Negyedóránként számolva", "min": 15, "price": 2500, "from": true, "id": "s6"}, {"name": "Kölyök első kozmetika", "desc": "5 hónapos korig, ismerkedős tempóban", "min": 45, "price": 6000, "id": "s7"}], "dd": "star"}], "step": 30, "size0": 1, "demoDog": null, "demoBreed": null, "slug": "teszt-kutyakozmetika", "gal": [["d1", "Szamojéd fürdetés után"], ["d5", "Fekete uszkár nyírás után"], ["d9", "Kínai meztelenkutya fazonigazítás után"], ["d8", "Fehér bichon"], ["d2", "Munka közben"], ["d11", "Cocker spániel"], ["d4", "Szürke uszkár"]], "hours": [["9:00", "17:00"], ["9:00", "17:00"], ["9:00", "17:00"], ["9:00", "18:00"], ["9:00", "17:00"], ["9:00", "13:00"], null]}</script>
 <script>/* közös segédek a szolgáltatós demókhoz (kutyakozmetika, esküvő, borászat) */
 var HZ = (function () {
   var D = JSON.parse(document.getElementById('hzdata').textContent);
@@ -534,12 +703,12 @@ var HZ = (function () {
   function drawSizes() {
     $$('[data-sizes]').forEach(function (el) {
       el.style.setProperty('--n', S.length);
-      el.innerHTML = S.map(function (s, i) { return '<button type="button" data-size="' + i + '" aria-pressed="' + (i === st.size) + '"><b>' + H.esc(s.name) + '</b><span>' + H.esc(s.note || '') + '</span></button>' }).join('');
+      el.innerHTML = S.map(function (s, i) { return '<button type="button" data-size="' + i + '" aria-pressed="' + (i === st.size) + '"><svg class="dd dg" viewBox="0 0 64 48" style="width:' + Math.round(34 + 46 * (S.length > 1 ? i / (S.length - 1) : .5)) + 'px" aria-hidden="true"><use href="#d-dog"/></svg><b>' + H.esc(s.name) + '</b><span>' + H.esc(s.note || '') + '</span></button>' }).join('');
     });
   }
   function drawList() {
     $('[data-pl]').innerHTML = D.cats.map(function (c) {
-      return '<div class="cat"><h3>' + H.esc(c.cat) + '</h3>' + c.items.map(function (it) {
+      return '<div class="cat"><h3><svg class="dd" viewBox="0 0 48 48" aria-hidden="true"><use href="#d-' + (c.dd || 'bone') + '"/></svg>' + H.esc(c.cat) + '</h3>' + c.items.map(function (it) {
         var on = st.picked.indexOf(it.id) >= 0, m = mins(it);
         return '<div class="row"><div><b>' + H.esc(it.name) + '</b>' + (it.desc ? '<small>' + H.esc(it.desc) + '</small>' : '') + '</div><div class="pr">' + ptxt(it) + (m ? '<span>kb. ' + H.dur(m) + '</span>' : '') + '</div>' +
           '<button type="button" class="add" data-add="' + it.id + '" aria-pressed="' + on + '" aria-label="' + H.esc(it.name) + (on ? ' – kivétel a foglalásból' : ' – hozzáadás a foglaláshoz') + '">' + H.ico(on ? 'check' : 'plus') + '</button></div>';
@@ -596,7 +765,9 @@ var HZ = (function () {
     else if ((b = e.target.closest('[data-day]')) && !b.disabled) { st.day = +b.getAttribute('data-day'); st.slot = null; drawDays(); drawSlots(); drawSum() }
     else if ((b = e.target.closest('[data-slot]')) && !b.disabled) { st.slot = +b.getAttribute('data-slot'); drawSlots(); drawSum() }
   });
-  $('[name=kutya]').addEventListener('input', drawSum);
+  var hello = $('[data-hello]'), hello0 = hello ? hello.textContent : '';
+  function greet() { var d = $('[name=kutya]').value.trim(); if (hello) hello.textContent = d ? 'Szia, ' + d + '! Mikor jössz?' : hello0 }
+  $('[name=kutya]').addEventListener('input', function () { drawSum(); greet() });
 
   var form = $('[data-form]'), hint = $('[data-hint]');
   form.addEventListener('submit', function (e) {
@@ -605,7 +776,7 @@ var HZ = (function () {
     if (st.day == null || st.slot == null) { hint.textContent = 'Válassz napot és időpontot.'; dayEls.scrollIntoView({ block: 'center' }); return }
     if (!H.check(form, hint)) return;
     var dog = $('[name=kutya]').value.trim();
-    $('[data-done-h]').textContent = 'Megvan, várjuk ' + dog + (/[aáeéiíoóöőuúüű]$/i.test(dog) ? 't' : '-t') + '! 🐾';
+    $('[data-done-h]').textContent = 'Megvan, várjuk ' + dog + (/[aáeéiíoóöőuúüű]$/i.test(dog) ? 't' : '-t') + '!';
     $('[data-done-p]').textContent = $('[data-s-when]').textContent + ' · ' + $('[data-s-what]').textContent + ' · ' + $('[data-s-total]').textContent;
     $$('[data-bookbody]').forEach(function (x) { x.hidden = true }); var dn = $('[data-done]'); dn.hidden = false; dn.focus(); drawSum();
     $('#foglalas').scrollIntoView({ block: 'start' });
@@ -627,7 +798,7 @@ var HZ = (function () {
     st.size = Math.min(1, S.length - 1); var ids = Object.keys(items); st.picked = ids.slice(0, Math.min(2, ids.length));
     $('[name=kutya]').value = D.demoDog || 'Mogyoró'; $('[name=fajta]').value = D.demoBreed || 'uszkár';
     for (var i = 1; i < 21; i++) { var f = slotsFor(H.addDays(today, i), Math.max(total().m, 30)).filter(function (s) { return s.free }); if (f.length > 2) { st.day = i; st.slot = f[1].m; break } }
-    redraw();
+    redraw(); greet();
   };
 })();
 </script>
